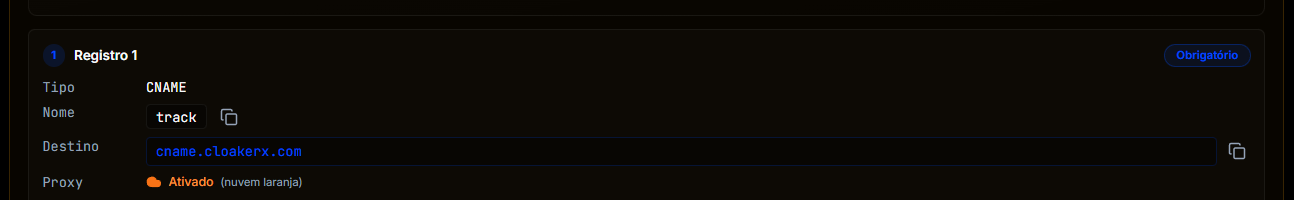
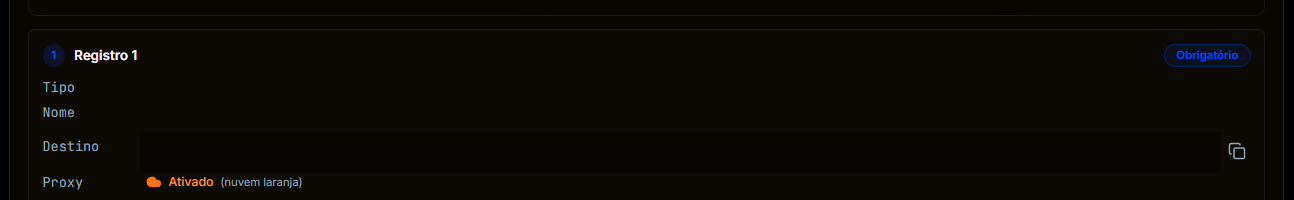
fix(domains): stop the guide from teaching example DNS values

diff --git a/src/i18n/locales/es.ts b/src/i18n/locales/es.ts
@@ -325,31 +325,29 @@ const es = {
       back: "Volver a dominios",
       orderTitle: "Hazlo en este orden",
       shotsTitle: "Mira cada pantalla",
-      shotsNote: "Las fotos usan track.cloakerguard.shop como ejemplo. En tu tarjeta, copia el nombre y el destino que aparezcan.",
+      shotsNote: "El nombre y el destino se copian de tu tarjeta. En las fotos, el registro 1 queda con la nube naranja y el registro 2 con la nube gris.",
       shot1Title: "Registra el dominio",
-      shot1Text: "Haz clic en Agregar dominio, escribe la dirección y confirma. El dominio tiene que estar en Cloudflare.",
+      shot1Text: "Haz clic en Agregar dominio, escribe tu dirección y confirma. El dominio tiene que estar en Cloudflare.",
       shot2Title: "Copia el registro 1",
-      shot2Text: "Tipo CNAME. En el campo Nombre de Cloudflare va solo el nombre, en este ejemplo track. El destino es cname.cloakerx.com. La nube queda naranja.",
+      shot2Text: "Tipo CNAME. Copia el nombre y el destino del registro 1 en tu tarjeta. Este registro queda con el proxy activado, nube naranja.",
       shot3Title: "Crea el registro 1 en Cloudflare",
-      shot3Text: "En DNS, haz clic en Agregar registro. Tipo CNAME, el nombre de la tarjeta, destino cname.cloakerx.com y el proxy activado. Guarda.",
-      shot4Title: "En el registro 1 la nube gris no conecta",
-      shot4Text: "El proxy de este registro tiene que quedar activado. La nube gris aquí deja el dominio pendiente. La nube gris es la del registro 2.",
+      shot3Text: "En DNS, haz clic en Agregar registro. Pega el nombre y el destino del registro 1. Deja el proxy activado, nube naranja, y guarda.",
       shot5Title: "Crea el registro 2",
-      shot5Text: "También es obligatorio. Tipo CNAME y nube gris. El nombre y el destino de esta foto son del ejemplo. Copia los dos campos de tu tarjeta. Si ya existe un TXT con ese nombre, bórralo y crea el CNAME.",
+      shot5Text: "Obligatorio. Pega el nombre y el destino del registro 2 en tu tarjeta. Deja el proxy desactivado, nube gris. Si ya existe un TXT en ese nombre, bórralo y crea el CNAME.",
       shot6Title: "Revisa la línea y vuelve a CloakerX",
-      shot6Text: "La línea del registro 1 queda Proxied, con destino cname.cloakerx.com. Vuelve al panel y pulsa Verificar ahora. Tarda de 1 a 15 minutos.",
+      shot6Text: "La línea del registro 1 queda con la nube naranja. Vuelve al panel y pulsa Verificar ahora. Tarda de 1 a 15 minutos.",
       whereQ: "¿Dónde creo el registro?",
       whereA: "En Cloudflare, en el dominio, en DNS, en Agregar registro. Hostinger, HostGator, Registro.br y el panel del hosting no validan.",
       boughtQ: "Compré el dominio en el hosting. ¿Y ahora?",
       boughtA: "Agrega el dominio a una cuenta de Cloudflare. Donde lo compraste, cambia los nameservers por los dos que Cloudflare muestre. El registro de CloakerX solo funciona después de eso.",
       fillQ: "¿Cómo completo el registro?",
-      fillA: "Son siempre dos CNAME. Nunca TXT. En el registro 1, el destino es cname.cloakerx.com y la nube queda naranja. En el registro 2, copia el nombre y el destino de la tarjeta y deja la nube gris. La pantalla de Cloudflare muestra TXT: ignóralo. Ese valor cambia. El CNAME se queda.",
+      fillA: "Son siempre dos CNAME. En el registro 1, copia el nombre y el destino de la tarjeta y deja la nube naranja. En el registro 2, copia el nombre y el destino de la tarjeta y deja la nube gris. La pantalla de Cloudflare muestra TXT: ignóralo.",
       atSignQ: "¿Qué es @ en el campo Nombre?",
-      atSignA: "En Cloudflare, @ es el dominio sin www. No escribas el dominio entero en ese campo. Si registraste track.tusitio.com, el Nombre es track.",
+      atSignA: "En Cloudflare, @ es el dominio sin www. El campo Nombre recibe solo lo que muestra la tarjeta. El dominio entero no entra en ese campo.",
       greyQ: "La nube quedó gris. ¿Sirve?",
       greyA: "En el registro 1, no. Ese queda naranja. En el registro 2, la nube gris es obligatoria. Si los inviertes, el dominio no valida.",
       pendingQ: "Pulsé verificar y sigue pendiente.",
-      pendingA: "Espera de 1 a 15 minutos y pulsa Verificar ahora otra vez. Revisa el destino cname.cloakerx.com y la nube naranja. Un registro hecho en el hosting no aparece aquí.",
+      pendingA: "Espera de 1 a 15 minutos y pulsa Verificar ahora otra vez. El registro 1 queda con la nube naranja y el registro 2 con la nube gris, con los valores de tu tarjeta. Un registro hecho en el hosting no aparece aquí.",
       secondQ: "¿Necesito crear el segundo registro?",
       secondA: "Sí. Los dos son CNAME y los dos son obligatorios. El registro 1 conecta el dominio, nube naranja. El registro 2 valida el SSL, nube gris. No crees el TXT que muestra Cloudflare. Si ya existe un TXT en ese nombre, bórralo y crea el CNAME.",
       hostingQ: "Lo creé en Hostinger y no valida.",
@@ -378,7 +376,7 @@ const es = {
     viewOnlyHint: "Modo visualización — los límites del tenant no están disponibles aquí.",
     viewOnlyAdd: "Modo visualización",
     addDomainTitle: "Conectar tu Dominio",
-    addDomainDesc: "Usa un subdominio, como track.tudominio.com. El dominio tiene que estar en Cloudflare.",
+    addDomainDesc: "Escribe la dirección que vas a usar en la campaña. El dominio tiene que estar en Cloudflare.",
     domainUrl: "Dominio",
     domainUrlPlaceholder: "app.tudominio.com",
     domainAdded: "¡Dominio registrado! Sigue los pasos para activar.",

diff --git a/src/i18n/locales/pt.ts b/src/i18n/locales/pt.ts
@@ -325,31 +325,29 @@ const pt = {
       back: "Voltar para domínios",
       orderTitle: "Faça nesta ordem",
       shotsTitle: "Veja cada tela",
-      shotsNote: "As fotos usam track.cloakerguard.shop como exemplo. No seu card, copie o nome e o destino que aparecerem.",
+      shotsNote: "O nome e o destino você copia do seu card. Nas fotos, o registro 1 fica com a nuvem laranja e o registro 2 com a nuvem cinza.",
       shot1Title: "Cadastre o domínio",
-      shot1Text: "Clique em Adicionar domínio, digite o endereço e confirme. O domínio precisa estar na Cloudflare.",
+      shot1Text: "Clique em Adicionar domínio, digite o seu endereço e confirme. O domínio precisa estar na Cloudflare.",
       shot2Title: "Copie o registro 1",
-      shot2Text: "Tipo CNAME. No campo Nome da Cloudflare entra só o nome, neste exemplo track. O destino é cname.cloakerx.com. A nuvem fica laranja.",
+      shot2Text: "Tipo CNAME. Copie o nome e o destino do registro 1 no seu card. Este registro fica com o proxy ligado, nuvem laranja.",
       shot3Title: "Crie o registro 1 na Cloudflare",
-      shot3Text: "Em DNS, clique em Adicionar registro. Tipo CNAME, o nome do card, destino cname.cloakerx.com e o proxy ligado. Salve.",
-      shot4Title: "No registro 1 a nuvem cinza não liga",
-      shot4Text: "O proxy deste registro tem que ficar ligado. Nuvem cinza aqui deixa o domínio pendente. A nuvem cinza é a do registro 2.",
+      shot3Text: "Em DNS, clique em Adicionar registro. Cole o nome e o destino do registro 1. Deixe o proxy ligado, nuvem laranja, e salve.",
       shot5Title: "Crie o registro 2",
-      shot5Text: "Também é obrigatório. Tipo CNAME e nuvem cinza. O nome e o destino desta foto são do exemplo. Copie os dois campos do seu card. Se já existir um TXT com esse nome, apague e crie o CNAME.",
+      shot5Text: "Obrigatório. Cole o nome e o destino do registro 2 no seu card. Deixe o proxy desligado, nuvem cinza. Se já existir um TXT nesse nome, apague e crie o CNAME.",
       shot6Title: "Confira a linha e volte ao CloakerX",
-      shot6Text: "A linha do registro 1 fica Proxied, com destino cname.cloakerx.com. Volte ao painel e clique em Verificar agora. Leva de 1 a 15 minutos.",
+      shot6Text: "A linha do registro 1 fica com a nuvem laranja. Volte ao painel e clique em Verificar agora. Leva de 1 a 15 minutos.",
       whereQ: "Onde eu crio o registro?",
       whereA: "Na Cloudflare, no domínio, em DNS, em Adicionar registro. Hostinger, HostGator, Registro.br e o painel da hospedagem não validam.",
       boughtQ: "Comprei o domínio na hospedagem. E agora?",
       boughtA: "Adicione o domínio numa conta da Cloudflare. No lugar onde você comprou, troque os nameservers pelos dois que a Cloudflare mostrar. Só depois disso o registro do CloakerX funciona.",
       fillQ: "Como preencho o registro?",
-      fillA: "São sempre dois CNAME. Nunca TXT. No registro 1, o destino é cname.cloakerx.com e a nuvem fica laranja. No registro 2, copie o nome e o destino do card e deixe a nuvem cinza. A tela da Cloudflare mostra TXT: ignore. Esse valor muda. O CNAME fica.",
+      fillA: "São sempre dois CNAME. No registro 1, copie o nome e o destino do card e deixe a nuvem laranja. No registro 2, copie o nome e o destino do card e deixe a nuvem cinza. A tela da Cloudflare mostra TXT: ignore.",
       atSignQ: "O que é o @ no campo Nome?",
-      atSignA: "Na Cloudflare, @ é o domínio sem www. Não escreva o domínio inteiro nesse campo. Se cadastrou track.seusite.com, o Nome é track.",
+      atSignA: "Na Cloudflare, @ é o domínio sem www. O campo Nome recebe só o que o card mostra. O domínio inteiro não entra nesse campo.",
       greyQ: "A nuvem ficou cinza. Serve?",
       greyA: "No registro 1, não. Esse fica laranja. No registro 2, a nuvem cinza é obrigatória. Se inverter, o domínio não valida.",
       pendingQ: "Cliquei em verificar e continua pendente.",
-      pendingA: "Espere de 1 a 15 minutos e clique em Verificar agora de novo. Confira o destino cname.cloakerx.com e a nuvem laranja. Registro feito na hospedagem não aparece aqui.",
+      pendingA: "Espere de 1 a 15 minutos e clique em Verificar agora de novo. O registro 1 fica com a nuvem laranja e o registro 2 com a nuvem cinza, com os valores do seu card. Registro feito na hospedagem não aparece aqui.",
       secondQ: "Preciso criar o segundo registro?",
       secondA: "Sim. Os dois são CNAME e os dois são obrigatórios. O registro 1 liga o domínio, nuvem laranja. O registro 2 valida o SSL, nuvem cinza. Não crie o TXT que a Cloudflare mostra. Se já existir TXT nesse nome, apague e crie o CNAME.",
       hostingQ: "Criei na Hostinger e não valida.",
@@ -378,7 +376,7 @@ const pt = {
     viewOnlyHint: "Modo visualização — limites do tenant não estão disponíveis aqui.",
     viewOnlyAdd: "Modo visualização",
     addDomainTitle: "Conectar seu Domínio",
-    addDomainDesc: "Use um subdomínio, como track.seudominio.com. O domínio precisa estar na Cloudflare.",
+    addDomainDesc: "Digite o endereço que vai usar na campanha. O domínio precisa estar na Cloudflare.",
     domainUrl: "Domínio",
     domainUrlPlaceholder: "app.seudominio.com",
     domainAdded: "Domínio registrado! Siga os passos para ativar.",

diff --git a/src/i18n/locales/en.ts b/src/i18n/locales/en.ts
@@ -336,31 +336,29 @@ const en = {
       back: "Back to domains",
       orderTitle: "Do it in this order",
       shotsTitle: "Each screen",
-      shotsNote: "The photos use track.cloakerguard.shop as an example. On your card, copy the name and target you see there.",
+      shotsNote: "Copy the name and target from your card. In the photos, record 1 has the orange cloud and record 2 has the grey cloud.",
       shot1Title: "Add the domain",
-      shot1Text: "Click Add domain, type the address and confirm. The domain has to be on Cloudflare.",
+      shot1Text: "Click Add domain, type your address and confirm. The domain has to be on Cloudflare.",
       shot2Title: "Copy record 1",
-      shot2Text: "Type CNAME. In Cloudflare's Name field, paste only the name, track in this example. The target is cname.cloakerx.com. The cloud stays orange.",
+      shot2Text: "Type CNAME. Copy the name and target from record 1 on your card. This record stays proxied, orange cloud.",
       shot3Title: "Create record 1 in Cloudflare",
-      shot3Text: "Under DNS, click Add record. Type CNAME, the name from the card, target cname.cloakerx.com, and the proxy on. Save.",
-      shot4Title: "A grey cloud on record 1 does not connect",
-      shot4Text: "The proxy on this record has to stay on. A grey cloud here leaves the domain pending. The grey cloud belongs to record 2.",
+      shot3Text: "Under DNS, click Add record. Paste the name and target from record 1. Leave the proxy on, orange cloud, and save.",
       shot5Title: "Create record 2",
-      shot5Text: "This one is required too. Type CNAME and a grey cloud. The name and target in this photo are from the example. Copy both fields from your card. If a TXT already uses that name, delete it and create the CNAME.",
+      shot5Text: "Required. Paste the name and target from record 2 on your card. Leave the proxy off, grey cloud. If a TXT already uses that name, delete it and create the CNAME.",
       shot6Title: "Check the saved row and return to CloakerX",
-      shot6Text: "The record 1 row stays Proxied, with target cname.cloakerx.com. Come back to the panel and click Verify now. It takes 1 to 15 minutes.",
+      shot6Text: "The record 1 row stays with the orange cloud. Come back to the panel and click Verify now. It takes 1 to 15 minutes.",
       whereQ: "Where do I create the record?",
       whereA: "In Cloudflare, on the domain, under DNS, Add record. Hostinger, HostGator, Registro.br and the hosting panel cannot verify it.",
       boughtQ: "I bought the domain at my host. What now?",
       boughtA: "Add the domain to a Cloudflare account. Where you bought it, replace the nameservers with the two Cloudflare shows you. The CloakerX record only works after that.",
       fillQ: "How do I fill in the record?",
-      fillA: "Always two CNAMEs. Never a TXT. On record 1, the target is cname.cloakerx.com and the cloud stays orange. On record 2, copy the name and target from the card and leave the cloud grey. Cloudflare's screen shows a TXT: ignore it. That value changes. The CNAME stays.",
+      fillA: "Always two CNAMEs. On record 1, copy the name and target from the card and leave the cloud orange. On record 2, copy the name and target from the card and leave the cloud grey. Cloudflare's screen shows a TXT: ignore it.",
       atSignQ: "What is @ in the Name field?",
-      atSignA: "In Cloudflare, @ is the domain without www. Do not type the full domain in that field. If you added track.yoursite.com, the Name is track.",
+      atSignA: "In Cloudflare, @ is the domain without www. The Name field gets only what the card shows. The full domain does not go in that field.",
       greyQ: "The cloud turned grey. Is that ok?",
       greyA: "Not on record 1. That one stays orange. On record 2, the grey cloud is required. If you swap them, the domain does not verify.",
       pendingQ: "I clicked verify and it is still pending.",
-      pendingA: "Wait 1 to 15 minutes and click Verify now again. Check the target cname.cloakerx.com and the orange cloud. A record created at your host does not show up here.",
+      pendingA: "Wait 1 to 15 minutes and click Verify now again. Record 1 stays with the orange cloud and record 2 with the grey cloud, using the values from your card. A record created at your host does not show up here.",
       secondQ: "Do I need the second record?",
       secondA: "Yes. Both are CNAMEs and both are required. Record 1 connects the domain, orange cloud. Record 2 validates SSL, grey cloud. Do not create the TXT Cloudflare shows. If a TXT already exists on that name, delete it and create the CNAME.",
       hostingQ: "I created it at Hostinger and it does not verify.",
@@ -389,7 +387,7 @@ const en = {
     viewOnlyHint: "View-only mode — this tenant's limits aren't available here.",
     viewOnlyAdd: "View only",
     addDomainTitle: "Connect Your Domain",
-    addDomainDesc: "Use a subdomain, such as track.yourdomain.com. The domain must be on Cloudflare.",
+    addDomainDesc: "Type the address you will use on the campaign. The domain has to be on Cloudflare.",
     domainUrl: "Domain",
     domainUrlPlaceholder: "app.yourdomain.com",
     domainAdded: "Domain registered! Follow the steps below to activate.",

diff --git a/src/pages/DomainGuide.tsx b/src/pages/DomainGuide.tsx
@@ -15,7 +15,6 @@ const SHOTS = [
   ["01-modal.png", "shot1Title", "shot1Text"],
   ["02-registro-1.png", "shot2Title", "shot2Text"],
   ["03-cloudflare-laranja.png", "shot3Title", "shot3Text"],
-  ["04-cloudflare-cinza.png", "shot4Title", "shot4Text"],
   ["05-registro-2.png", "shot5Title", "shot5Text"],
   ["06-linha-salva.png", "shot6Title", "shot6Text"],
 ] as const;
